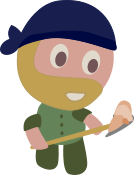
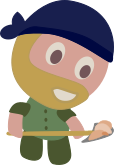
Added digging

diff --git a/src/main/objects/Pirate.ts b/src/main/objects/Pirate.ts
@@ -8,6 +8,9 @@ import { MainEventsManager } from "../MainEventsManager";
  */
 export class Pirate {
     private static readonly MOVE_SPEED = 300;
+    private static readonly DIGWAIT = 50;
+    private static readonly DIGTIME = 100;
+
     private pirate: Phaser.Physics.Arcade.Sprite;
     private scene: Phaser.Scene;
     private currentSpeedX = 0;
@@ -20,7 +23,9 @@ export class Pirate {
     private island: Phaser.Tilemaps.TilemapLayer;
     private walkSound: Phaser.Sound.BaseSound;
     private controls: KeyControls;
-
+    private digwait = 0;
+    private digtime = 0;
+    private digging = false;
     /**
      * Creates the pirate object
      *
@@ -81,59 +86,73 @@ export class Pirate {
 
         this.pirate.setVelocityX(0);
 
-        if (this.leftMove) this.pirate.flipX = true;
-        if (this.rightMove) this.pirate.flipX = false;
-
-        if (this.leftMove || this.rightMove || this.upMove || this.downMove) {
-            this.pirate.play("pirateWalk", true);
-            if (!this.walkSound.isPlaying) {
-                this.walkSound.play();
+        if (this.digging) {
+            this.pirate.play("pirateDig", true);
+            this.digwait = 0;
+            if (this.digtime++ >= Pirate.DIGTIME) {
+                this.digging = false;
+                this.digtime = 0;
+                this.pirate.play("pirateWalk", true);
             }
         } else {
-            this.pirate.anims.stop();
-            //this.walkSound.stop();
-        }
+            if (this.leftMove) this.pirate.flipX = true;
+            if (this.rightMove) this.pirate.flipX = false;
 
-        let x_dir = 0;
-        if (this.leftMove) {
-            x_dir = -1;
-        }
+            if (this.leftMove || this.rightMove || this.upMove || this.downMove) {
+                this.pirate.play("pirateWalk", true);
+                if (!this.walkSound.isPlaying) {
+                    this.walkSound.play();
+                }
+                this.digwait = 0;
+            } else {
+                if (this.digwait++ >= Pirate.DIGWAIT) {
+                    this.digging = true;
+                }
 
-        if (this.rightMove) {
-            x_dir = 1;
-        }
-        if (x_dir !== 0) {
-            this.currentSpeedX = x_dir * Pirate.MOVE_SPEED;
-            this.pirate.setVelocityX(this.currentSpeedX);
-        }
+                this.pirate.anims.stop();
+            }
 
-        this.leftMove = false;
-        this.rightMove = false;
+            let x_dir = 0;
+            if (this.leftMove) {
+                x_dir = -1;
+            }
 
-        this.pirate.setVelocityY(0);
+            if (this.rightMove) {
+                x_dir = 1;
+            }
+            if (x_dir !== 0) {
+                this.currentSpeedX = x_dir * Pirate.MOVE_SPEED;
+                this.pirate.setVelocityX(this.currentSpeedX);
+            }
 
-        let y_dir = 0;
-        if (this.upMove) {
-            y_dir = -1;
-        }
+            this.leftMove = false;
+            this.rightMove = false;
 
-        if (this.downMove) {
-            y_dir = 1;
-        }
-        if (y_dir !== 0) {
-            this.currentSpeedY = y_dir * Pirate.MOVE_SPEED;
-            this.pirate.setVelocityY(this.currentSpeedY);
-        }
+            this.pirate.setVelocityY(0);
 
-        this.upMove = false;
-        this.downMove = false;
-        this.debugText.setPosition(this.pirate.x, this.pirate.y);
-        if (currentTile) {
-            this.debugText.setText("" + currentTile.canCollide + " " + PirateTile[currentTile.index]);
-        } else {
-            this.debugText.setText("null");
+            let y_dir = 0;
+            if (this.upMove) {
+                y_dir = -1;
+            }
+
+            if (this.downMove) {
+                y_dir = 1;
+            }
+            if (y_dir !== 0) {
+                this.currentSpeedY = y_dir * Pirate.MOVE_SPEED;
+                this.pirate.setVelocityY(this.currentSpeedY);
+            }
+
+            this.upMove = false;
+            this.downMove = false;
+            this.debugText.setPosition(this.pirate.x, this.pirate.y);
+            if (currentTile) {
+                this.debugText.setText("" + currentTile.canCollide + " " + PirateTile[currentTile.index]);
+            } else {
+                this.debugText.setText("null");
+            }
+            this.pirate.depth = this.pirate.getBottomCenter().y;
         }
-        this.pirate.depth = this.pirate.getBottomCenter().y;
         MainEventsManager.emit("playerXY", this.controls, this.pirate.getCenter().x, this.pirate.getCenter().y);
     }
 

diff --git a/src/main/AnimationManager.ts b/src/main/AnimationManager.ts
@@ -6,15 +6,11 @@ export class AnimationManager {
      * Creates the animations for the game objects so that they are only created once
      */
     constructor(scene: Phaser.Scene) {
-        this.createCoinAnimation(scene);
+        this.createWalkAnimation(scene);
+        this.createDigAnimation(scene);
     }
 
-    /**
-     * Sets up the coin animation
-     *
-     * @param scene - the scene to add the animation to
-     */
-    private createCoinAnimation(scene: Phaser.Scene): void {
+    private createWalkAnimation(scene: Phaser.Scene): void {
         scene.anims.create({
             frameRate: 6,
             frames: scene.anims.generateFrameNames("sprites", {
@@ -24,6 +20,19 @@ export class AnimationManager {
             }),
 
             key: "pirateWalk",
+            repeat: -1,
+        });
+    }
+
+    private createDigAnimation(scene: Phaser.Scene): void {
+        scene.anims.create({
+            frameRate: 6,
+            frames: scene.anims.generateFrameNames("sprites", {
+                start: 1,
+                end: 4,
+                prefix: "PirateBasicDig",
+            }),
+            key: "pirateDig",
             repeat: -1,
         });
     }
